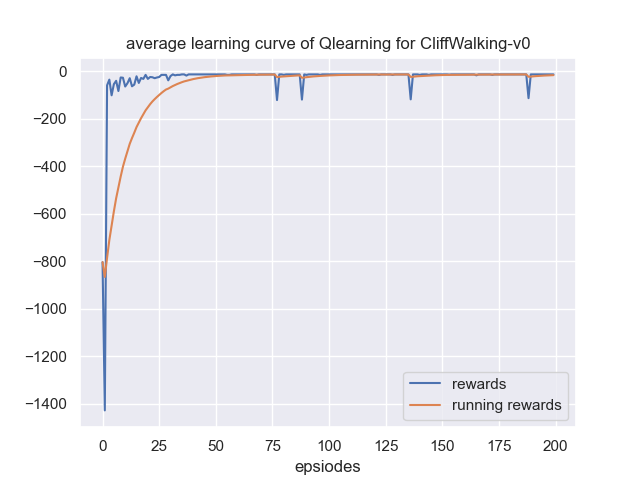
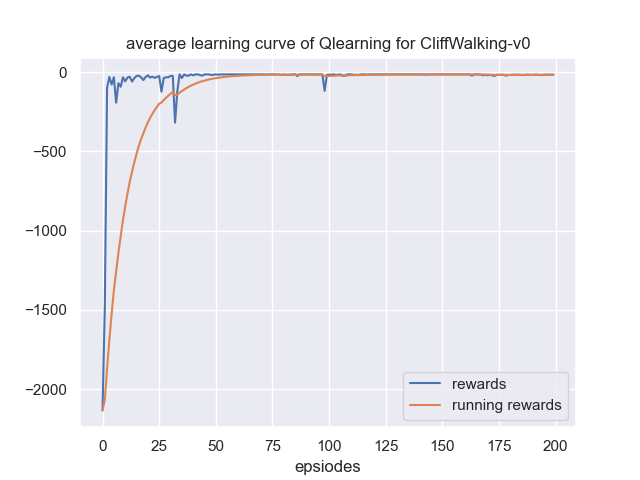
更新文档及修改BUG

diff --git a/3-q-learning/main.py b/3-q-learning/main.py
@@ -23,7 +23,7 @@ class QlearningConfig:
         self.epsilon_start = 0.95 #e-greedy策略中初始epsilon
         self.epsilon_end = 0.01 #e-greedy策略中的终止epsilon
         self.epsilon_decay = 300 #e-greedy策略中epsilon的衰减率
-        self.lr = 0.8 #学习率
+        self.lr = 0.7 #学习率
         self.render_frqc = 30 # 仿真渲染频率
         self.device = torch.device(
             "cuda" if torch.cuda.is_available() else "cpu")  # check gpu
@@ -47,20 +47,20 @@ def train(cfg, env, agent):
     for i_ep in range(cfg.train_eps):
         ep_reward = 0  # 记录每个episode的reward
         state = env.reset()  # 重置环境, 重新开一局（即开始新的一个episode）
-        # action = agent.choose_action(state)  # 根据算法选择一个动作
+        action = agent.choose_action(state)  # 根据算法选择一个动作
         while True:
-            action = agent.choose_action(state)  # 根据算法选择一个动作
+            # action = agent.choose_actionm(state)  # 根据算法选择一个动作
             next_state, reward, done, _ = env.step(action)  # 与环境进行一次动作交互
-            # next_action = agent.choose_action(next_state)  # SARSA需要a_{t+1}
+            next_action = agent.choose_action(next_state)  # SARSA需要a_{t+1}
             if i_ep % cfg.render_frqc == 0 and i_ep != 0:
                 env.render() # 渲染动作并显示
             # Q-learning算法更新
-            agent.Q_update(state, action, reward, next_state, done)  
+            # agent.Q_update(state, action, reward, next_state, done)  
             # SARSA算法更新
-            # agent.S_update(state, action, reward, next_state, next_action, done)
+            agent.S_update(state, action, reward, next_state, next_action, done)
             state = next_state  # 存储上一个观察值
             ep_reward += reward
-            # action = next_action  # SARSA需要修改动作
+            action = next_action  # SARSA需要修改动作
             if done: break
         rewards.append(ep_reward)
         if running_rewards:

diff --git a/1-Ndigit/Ndigit/main.py b/1-Ndigit/Ndigit/main.py
@@ -131,8 +131,8 @@ class Solution(object):
         for i in range(d**2):
             if g[i] == 0: continue
             j = t.index(g[i])
-            row = abs(i//3 - j//3)  # 行的差值
-            col = abs(i%3 - j%3)  # 列的差值
+            row = abs(i//d - j//d)  # 行的差值
+            col = abs(i%d - j%d)  # 列的差值
             res += (row+col)
         return res
     
@@ -142,8 +142,8 @@ class Solution(object):
         for i in range(d**2):
             if g[i] == 0: continue
             j = t.index(g[i])
-            row = i//3 - j//3  # 行的差值
-            col = i%3 - j%3  # 列的差值
+            row = i//d - j//d  # 行的差值
+            col = i%d - j%d  # 列的差值
             res += math.sqrt(row**2 + col**2)
         return res
     
@@ -175,14 +175,18 @@ if __name__ == "__main__":
     # s = Solution(3, g, t, m = 1)
     
     # 8数码用例2
-    g = [1, 0, 4, 2, 7, 6, 3, 8, 5]
-    t = [1, 2, 3, 4, 5, 6, 7, 8, 0]
-    s = Solution(3, g, t, m = 2)
+    # g = [1, 0, 2, 3, 4, 5, 6, 7, 8]
+    # t = [1, 2, 3, 4, 5, 6, 7, 8, 0]
+    # s = Solution(3, g, t, m = 2)
     
     # 15数码用例1
     # g = [5, 1, 2, 4, 9, 6, 3, 8, 13, 15, 10, 11, 14, 0, 7, 12]
     # t = [1, 2, 3, 4, 5, 6, 7, 8, 9, 10, 11, 12, 13, 14, 15, 0]
     # s = Solution(4, g, t, m = 1)
+    
+    g = [1, 2, 7, 3, 9, 5, 6, 4, 10, 11, 8, 0, 13, 14, 15, 12]
+    t = [1, 2, 3, 4, 5, 6, 7, 8, 9, 10, 11, 12, 13, 14, 15, 0]
+    s = Solution(4, g, t, m = 1)
     
     # 15数码用例2，要跑很久
     # g = [11, 9, 4, 15, 1, 3, 0, 12, 7, 5, 8, 6, 13, 2, 10, 14]

diff --git a/2-DT/dt/main.py b/2-DT/dt/main.py
@@ -251,27 +251,27 @@ if __name__ == "__main__":
     # s.accurcy(y)
     
     # 离散型测试用例
-    X = pd.read_csv('./data2/train.csv')
-    y = X.iloc[:, -1]
-    print(X)
-    X = X.drop([X.columns[-1]], axis=1)
-    X_test = pd.read_csv('./data2/test.txt')
-    y_test = X_test.iloc[:, -1]
-    X_test = X_test.drop([X_test.columns[-1]], axis=1)
-    
-    # 连续型测试用例
-    # X = pd.read_csv('./data1/traindata.txt')
+    # X = pd.read_csv('./data2/train.csv')
     # y = X.iloc[:, -1]
+    # print(X)
     # X = X.drop([X.columns[-1]], axis=1)
-    # X_test = pd.read_csv('./data1/testdata.txt')
+    # X_test = pd.read_csv('./data2/test.txt')
     # y_test = X_test.iloc[:, -1]
     # X_test = X_test.drop([X_test.columns[-1]], axis=1)
-    # changed = discretization_train(X, cut=3)
-    # print(X)
-    # discretization_test(X_test, changed)
-    # print(X_test)
     
-    s = Solution(X, y, depth=3, method=2)
+    # 连续型测试用例
+    X = pd.read_csv('./data1/traindata.txt')
+    y = X.iloc[:, -1]
+    X = X.drop([X.columns[-1]], axis=1)
+    X_test = pd.read_csv('./data1/testdata.txt')
+    y_test = X_test.iloc[:, -1]
+    X_test = X_test.drop([X_test.columns[-1]], axis=1)
+    changed = discretization_train(X, cut=3)
+    print(X)
+    discretization_test(X_test, changed)
+    print(X_test)
+    
+    s = Solution(X, y, depth=2, method=1)
     s.fit()
     s.draw()
     s.predict(X_test)

diff --git a/3-q-learning/readme.md b/3-q-learning/readme.md
@@ -29,8 +29,21 @@
 - 学习阶段探索环境，完成Q表格。
 - 预测阶段根据已完成的Q表格，选择路径。
 
+学习阶段可以选择使用的算法有Qlearning和SARSA。
+
+Qlearning的做法是向update函数中传入 $s_t$ 、 $a_t$ 、 $r_t$ 、 $s_{t+1}$ ，选择 $s_{t+1}$ 状态下最大的Q值来更新当前Q值。
+
+SARSA的做法是向update函数中传入 $s_t$ 、 $a_t$ 、 $r_t$ 、 $s_{t+1}$ 和 $a_{t+1}$ ，然后更新当前Q值。
+
+## 两种方法的区别
+
+Qlearning只使用贪心策略用 $s_t$ 预测 $a_t$ ，然后与环境交互得到 $r_t$ 和 $s_{t+1}$ ，最后向更新函数传入sars。
+
+SARSA先使用贪心策略用 $s_t$ 预测 $a_t$ ，然后与环境交互得到 $r_t$ 和 $s_{t+1}$ ，再根据 $s_{t+1}$ 使用贪心策略预测 $a_{t+1}$ ，最后向更新函数传入sarsa。
+
 ## 实验结果
 
+使用Qlearning：
 ```bash
 python main.py
 ...
@@ -40,3 +53,12 @@ Episode:29/30, reward:-13.0
 Episode:30/30, reward:-13.0
 ```
 最后的奖励为-13，即移动了13步到达终点，也就是之前A*寻到的最短路径。
+
+使用SARSA:
+```bash
+Episode:27/30, reward:-17.0
+Episode:28/30, reward:-17.0
+Episode:29/30, reward:-17.0
+Episode:30/30, reward:-17.0
+```
+最后的奖励为-17，并不是最短路径。

diff --git a/2-DT/readme.md b/2-DT/readme.md
@@ -147,10 +147,10 @@ C4.5决策树预测的结果为：
 比如对于这样的连续的数据：
 ```
 X1,X2,X3,X4,y
-5.1,3.5,1.4,0.2,1
-4.9,3,1.4,0.2,1
-4.7,3.2,1.3,0.2,1
-4.6,3.1,1.5,0.2,1
+5,3,1.6,0.2,1
+5,3.4,1.6,0.4,1
+5.2,3.5,1.5,0.2,1
+5.2,3.4,1.4,0.2,1
 ...
 ```
 
